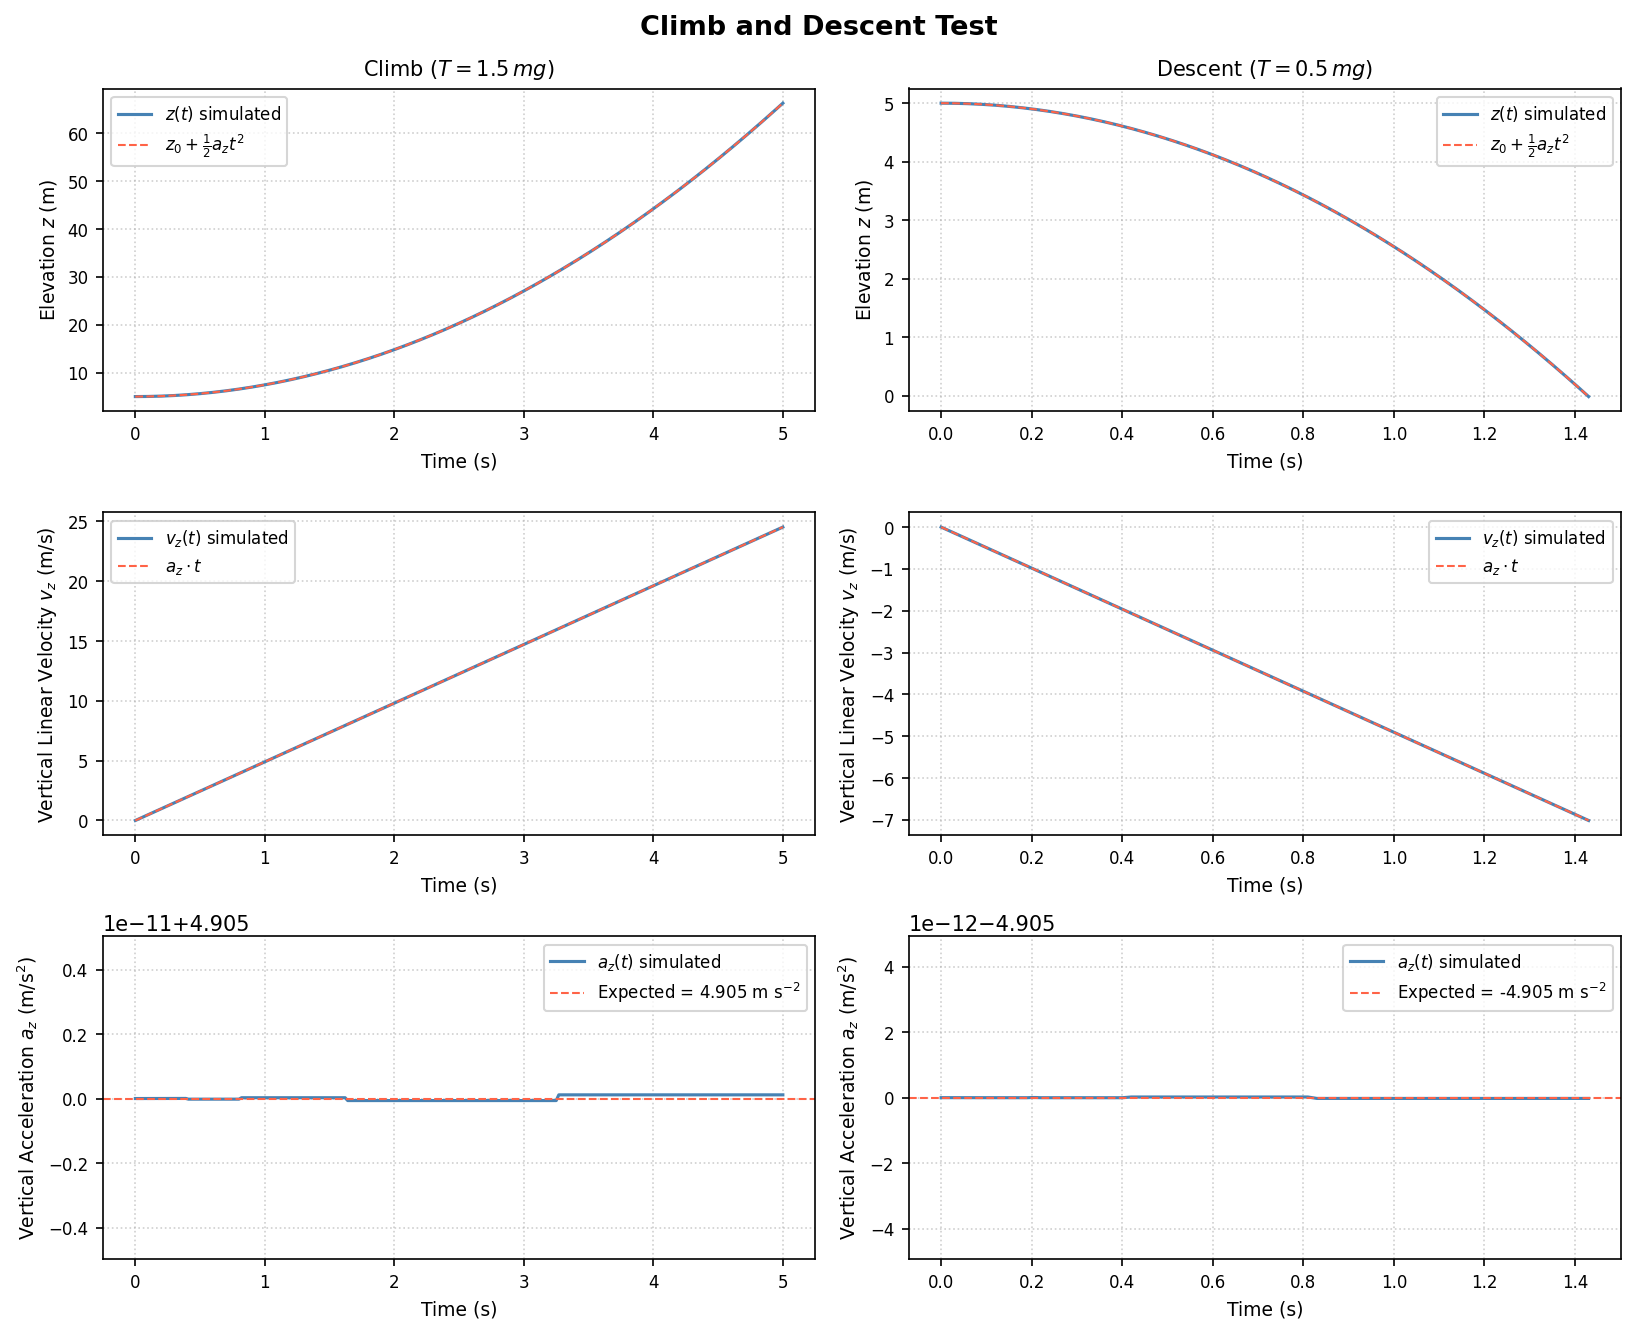
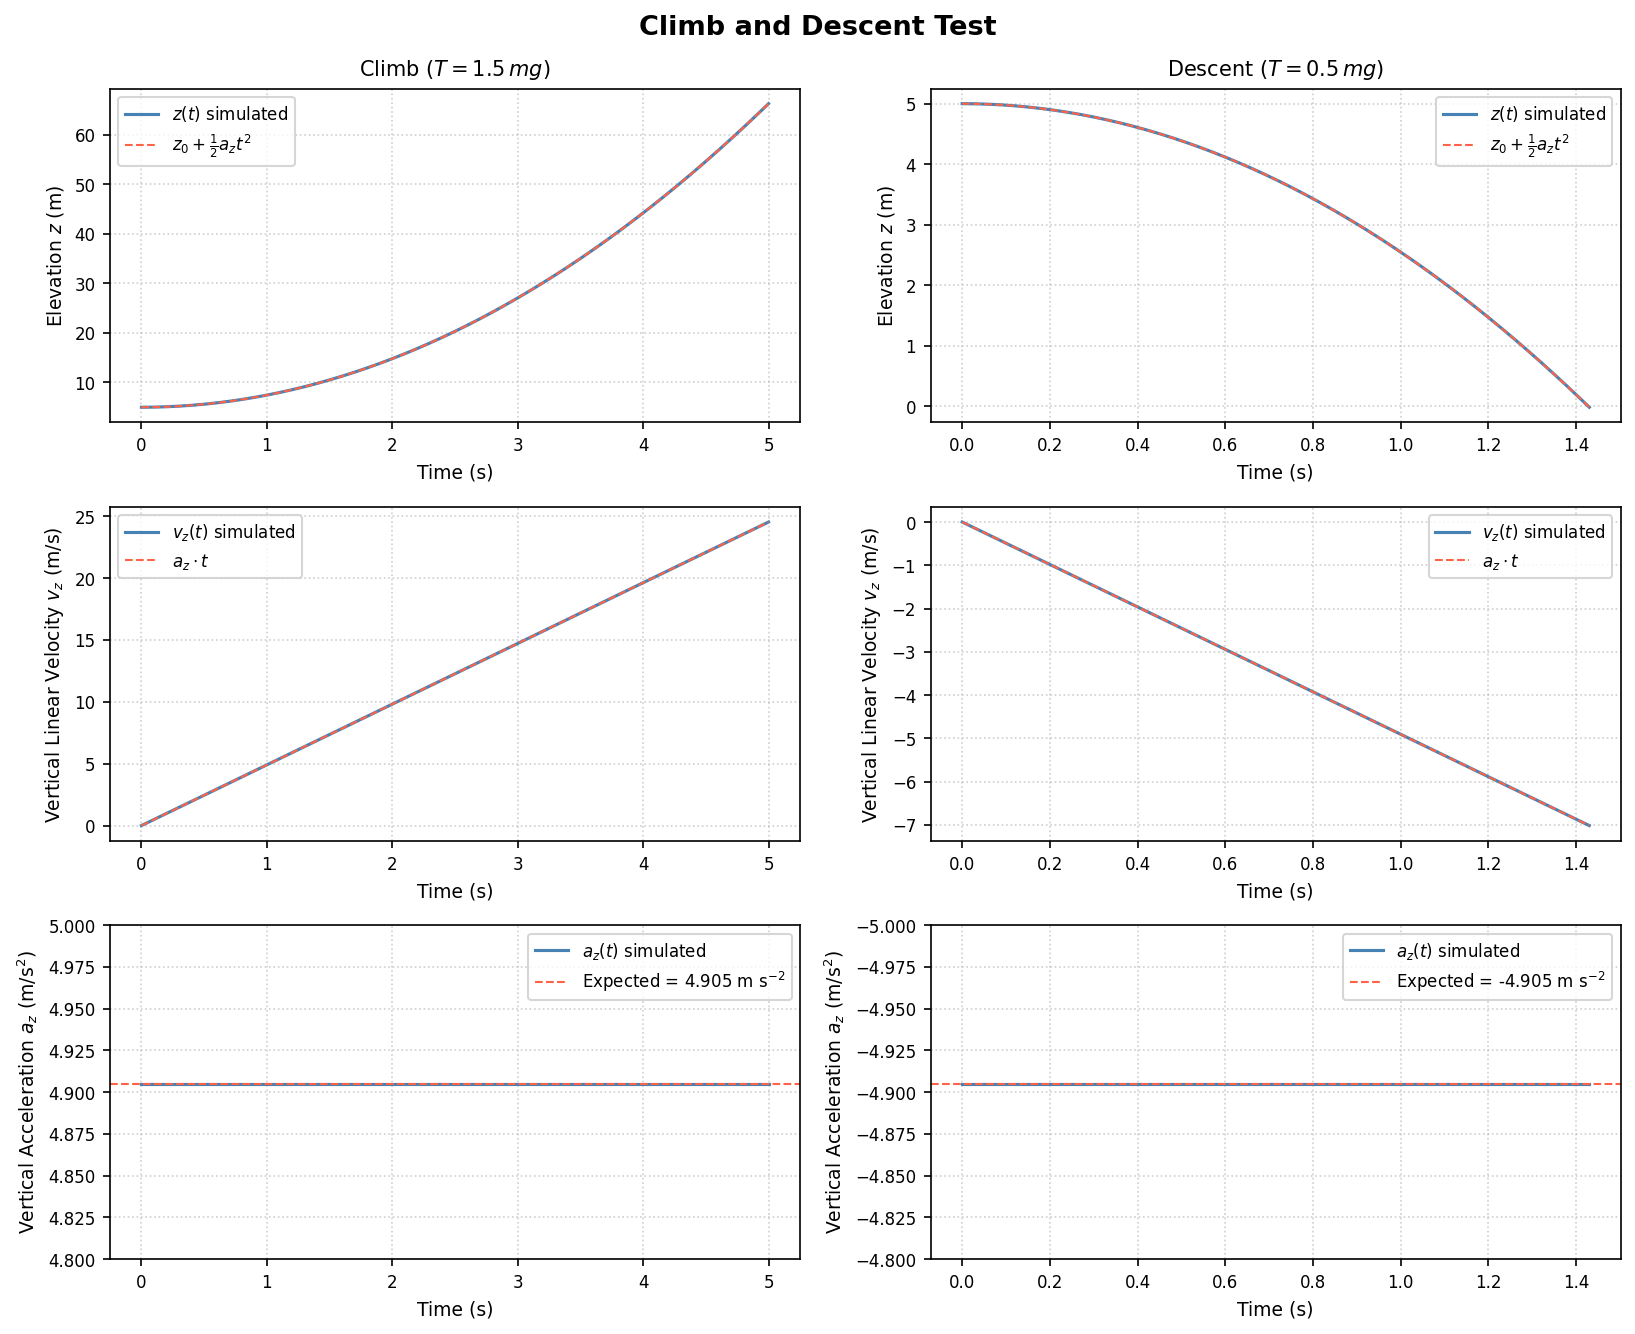
axes adjustments for climb_descent test

diff --git a/tests/test_climb_descend.py b/tests/test_climb_descend.py
@@ -92,7 +92,9 @@ for ax, t, az, a in [(axes[2, 0], t_climb, az_climb, a_climb),
     ax.plot(t, az, color='steelblue', linewidth=1.5, label=r'$a_z(t)$ simulated')                                                                                                        
     ax.axhline(a, **EXPECTED, label=f'Expected = {a:.3f} m s$^{{-2}}$')
     ax.set_ylabel(r'Vertical Acceleration $a_z$ (m/s$^{2}$)', fontsize=9)                                                                                                                                     
-    style_ax(ax) 
+    style_ax(ax)
+    axes[2,0].set_ylim(4.8,5.0)
+    axes[2,1].set_ylim(-4.8,-5.0) 
 
 plt.tight_layout()
 plt.savefig('figures/climb_descent_test.png', dpi=150, bbox_inches='tight')
